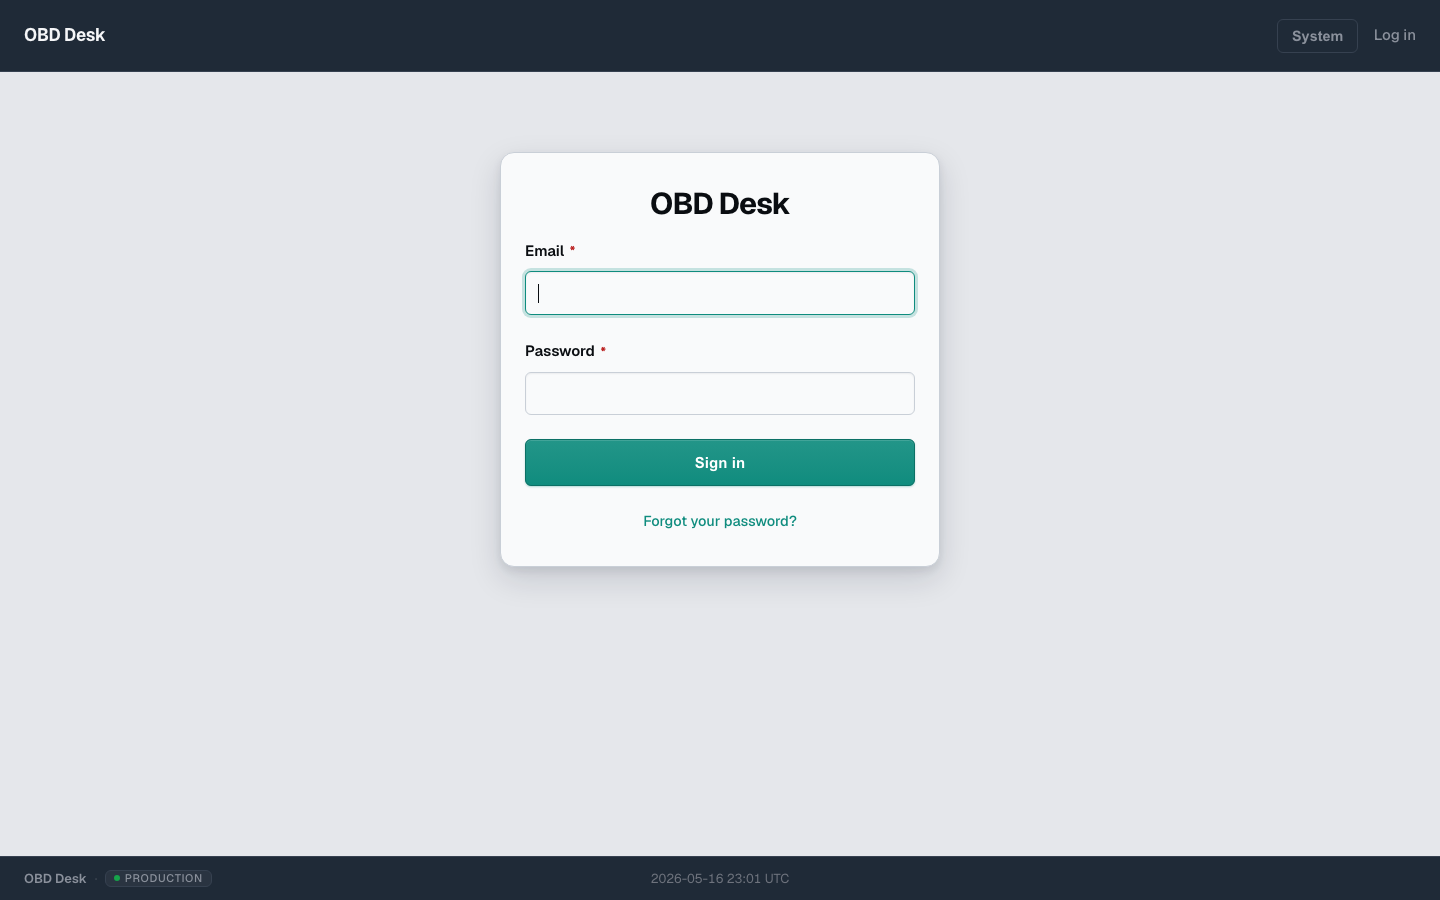
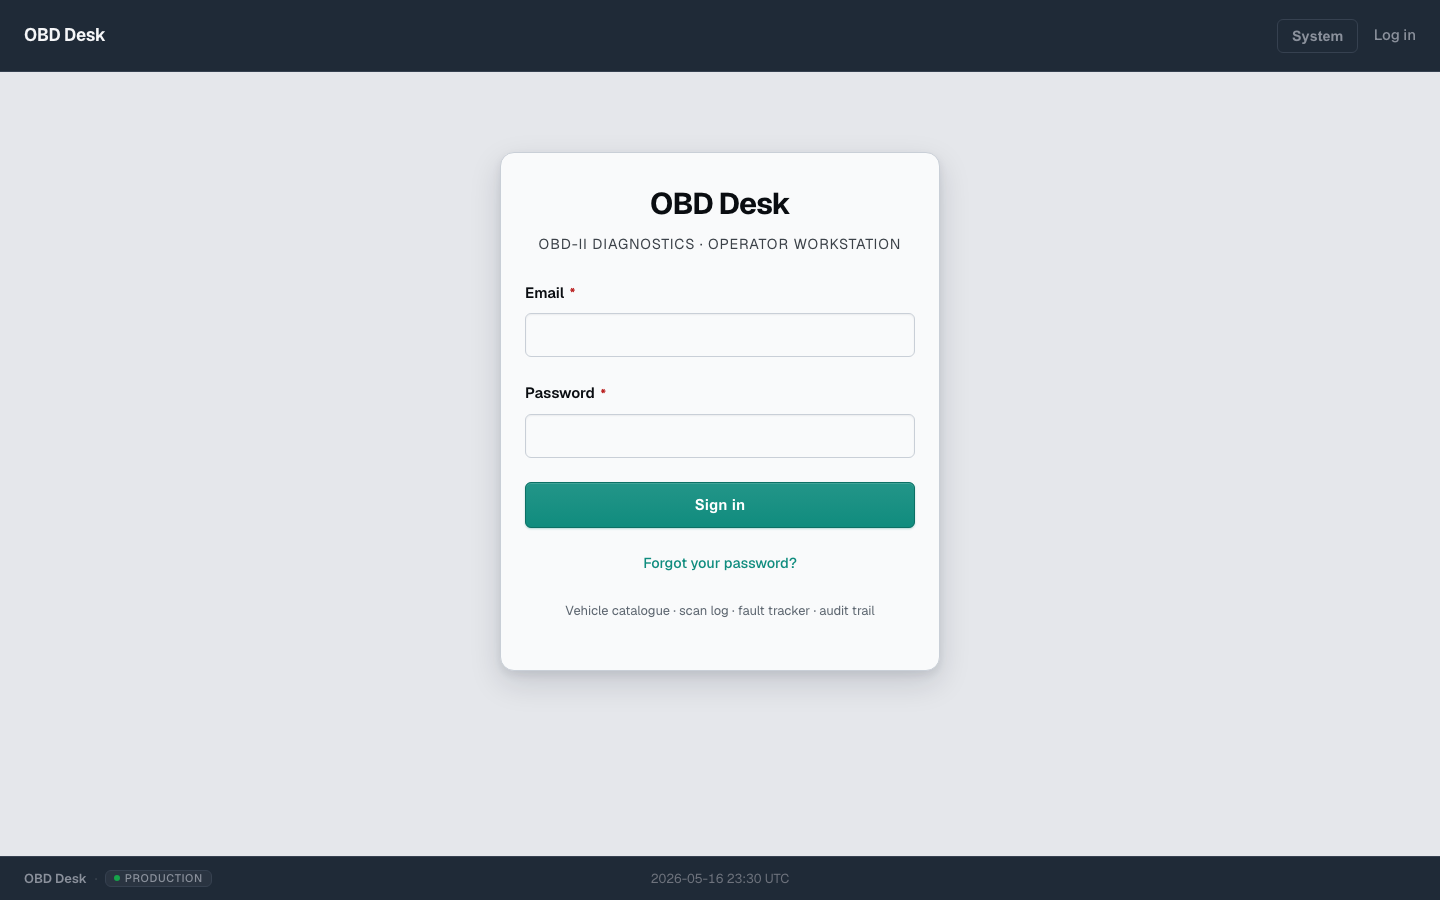
feat: project HTML template overrides — OBD operator dashboard
Loads project templates from `./templates/` via `Templates::new`,
so any `templates/admin/<page>.html` overrides the framework's
embedded copy for that page. The path can be relocated via
`RUSTIO_TEMPLATE_DIR` for deployments that ship templates next
to the binary rather than in the repo.

Two overrides ship in this commit:

`templates/admin/index.html` — replaces the framework's generic
"Site administration · model list" dashboard with an OBD-flavoured
operator brief:

  * Page header carries an OBD-II tagline + summary paragraph
    explaining what each catalogue does and how the audit log
    relates.
  * Catalogues card replaces the framework's model table with a
    4-column grid. Each model gets a description specific to
    obddesk (DTC catalogue → SAE J2012 / ISO 15031; Vehicles →
    fleet register by VIN; Scan sessions → diagnostic-event
    log; Detected faults → fault tracker through resolution).
  * Operator workflow card — a 4-step ordered list explaining
    the intended sequence (register vehicle → open scan session
    → record detected faults → resolve and document) with deep
    links to each "new" form.
  * Recent actions card unchanged in semantics — still consumes
    the framework's `recent_actions` audit-log variable, plus a
    one-sentence note explaining what triggers an audit row.

`templates/admin/login.html` — adds two lines of OBD framing
around the unchanged form:

  * Above the email field: `OBD-II DIAGNOSTICS · OPERATOR
[…]

diff --git a/templates/admin/index.html b/templates/admin/index.html
@@ -1,0 +1,145 @@
+{# obddesk override of the framework's index.html.
+   Replaces the generic "models you can manage" list with an OBD-II
+   operator dashboard: a welcome panel, per-model context cards
+   describing what each catalogue does, an operator-workflow guide,
+   and the framework's audit-log Recent actions list (untouched).
+
+   Loaded when `RUSTIO_TEMPLATE_DIR=templates` is set; falls back to
+   the embedded copy in framework/assets/templates/admin/index.html
+   otherwise. #}
+{% extends "admin/_base.html" %}
+{% block content %}
+<header class="rio-page-header">
+  <h1>{{ index_title }}</h1>
+  <p class="rio-meta" style="margin-top: 0.35rem; max-width: 60ch;">
+    Operator workstation for OBD-II diagnostics. Catalogue, fleet
+    register, scan log, and fault tracker — all on one Postgres-
+    backed admin. Sign-in attempts, schema changes, and authority
+    mutations are recorded in the audit log below.
+  </p>
+</header>
+
+{% if apps %}
+<section class="rio-card" style="padding-top: var(--rio-s4);">
+  <h2 style="font-size: var(--rio-fs-xs); font-weight: 600;
+             text-transform: uppercase;
+             letter-spacing: var(--rio-tracking-allcaps);
+             color: var(--rio-text-muted);
+             margin: 0 0 var(--rio-s4);">
+    Catalogues
+  </h2>
+
+  <div style="display: grid; gap: var(--rio-s4);
+              grid-template-columns: repeat(auto-fit, minmax(280px, 1fr));">
+    {% for app in apps %}
+      {% for model in app.models %}
+      <article style="border: 1px solid var(--rio-border-soft);
+                      border-radius: var(--rio-radius);
+                      padding: var(--rio-s4) var(--rio-s5);
+                      background: var(--rio-surface);">
+        <h3 style="margin: 0 0 var(--rio-s2);
+                   font-size: var(--rio-fs-lg);
+                   font-weight: 700;
+                   letter-spacing: var(--rio-tracking-heading);">
+          <a href="/admin/{{ model.admin_name }}"
+             style="color: var(--rio-text-strong); text-decoration: none;">
+            {{ model.display_name }}
+          </a>
+        </h3>
+
+        <p class="rio-meta" style="margin: 0 0 var(--rio-s4);
+                                   font-size: var(--rio-fs-sm);
+                                   line-height: var(--rio-lh-ui);">
+          {% if model.admin_name == "diagnostic_codes" %}
+            Canonical OBD-II DTC catalogue (SAE&nbsp;J2012 /
+            ISO&nbsp;15031). Powertrain, Body, Chassis, and Network
+            codes with severity classification.
+          {% elif model.admin_name == "vehicles" %}
+            Registered fleet — one row per VIN with make, model,
+            year, engine displacement, and fuel type.
+          {% elif model.admin_name == "scan_sessions" %}
+            Diagnostic-event log. Each session captures the vehicle,
+            mileage, technician, and free-form notes.
+          {% elif model.admin_name == "detected_faults" %}
+            Detected faults observed within each scan, tracked
+            through to resolution with technician notes.
+          {% else %}
+            Catalogue managed by this admin.
+          {% endif %}
+        </p>
+
+        <div style="display: flex; gap: var(--rio-s2); flex-wrap: wrap;">
+          <a class="rio-button rio-button--ghost"
+             href="/admin/{{ model.admin_name }}">
+            {{ icon("table", class="rio-icon") }} Browse
+          </a>
+          <a class="rio-button rio-button--ghost"
+             href="/admin/{{ model.admin_name }}/new">
+            {{ icon("plus", class="rio-icon") }} Add new
+          </a>
+        </div>
+      </article>
+      {% endfor %}
+    {% endfor %}
+  </div>
+</section>
+{% else %}
+<section class="rio-card rio-empty">
+  <p>No models registered yet. Call <code>Admin::new().model::&lt;YourModel&gt;()</code> in your <code>main.rs</code>.</p>
+</section>
+{% endif %}
+
+<section class="rio-card" style="padding-top: var(--rio-s4);">
+  <h2 style="font-size: var(--rio-fs-xs); font-weight: 600;
+             text-transform: uppercase;
+             letter-spacing: var(--rio-tracking-allcaps);
+             color: var(--rio-text-muted);
+             margin: 0 0 var(--rio-s3);">
+    Operator workflow
+  </h2>
+  <ol style="margin: 0; padding-left: var(--rio-s5);
+             font-size: var(--rio-fs-md); line-height: var(--rio-lh-body);
+             color: var(--rio-text);">
+    <li><strong>Register the vehicle.</strong>
+        Add a <a href="/admin/vehicles/new">new VIN</a> with make,
+        model, model year, engine displacement, and fuel type.</li>
+    <li><strong>Open a scan session.</strong>
+        Create a <a href="/admin/scan_sessions/new">scan session</a>
+        against the vehicle's VIN, recording mileage and the technician.</li>
+    <li><strong>Record detected faults.</strong>
+        For each DTC observed during the scan, file a
+        <a href="/admin/detected_faults/new">detected fault</a>
+        referencing the session and the diagnostic code.</li>
+    <li><strong>Resolve and document.</strong>
+        Edit the fault row, set <em>is&nbsp;resolved</em>, and
+        capture a resolution summary the next technician can rely on.</li>
+  </ol>
+</section>
+
+<section class="rio-card rio-recent">
+  <h2 style="font-size: var(--rio-fs-xs); font-weight: 600;
+             text-transform: uppercase;
+             letter-spacing: var(--rio-tracking-allcaps);
+             color: var(--rio-text-muted);
+             margin: 0 0 var(--rio-s3);">
+    Recent actions
+  </h2>
+  {% if recent_actions %}
+  <ul class="rio-timeline">
+    {% for a in recent_actions %}
+    <li class="rio-timeline-item">
+      <span class="rio-pill rio-pill--{{ a.pill_class }}">{{ a.label }}</span>
+      <a href="/admin/{{ a.model_name }}">{{ a.model_name }}</a>
+      #<a href="/admin/{{ a.model_name }}/{{ a.object_id }}/edit">{{ a.object_id }}</a>
+      {% if a.summary %}— {{ a.summary }}{% endif %}
+      <span class="rio-meta">{{ a.user_email }} · {{ a.when_relative }}</span>
+    </li>
+    {% endfor %}
+  </ul>
+  {% else %}
+  <p class="rio-meta">No actions recorded yet. Every authority mutation
+     (model row created / edited / deleted, password change, MFA
+     enrolment) lands here with the actor and timestamp.</p>
+  {% endif %}
+</section>
+{% endblock %}

diff --git a/templates/admin/login.html b/templates/admin/login.html
@@ -1,0 +1,37 @@
+{# obddesk override of the framework's login.html.
+   Adds an OBD-II tagline above the form + a one-line note below
+   so the sign-in surface signals what the service does without
+   crossing into marketing territory (DESIGN_DOCTRINE.md §6.7).
+   Form fields, CSRF, and submit semantics are unchanged. #}
+{% extends "admin/_base.html" %}
+{% block sidebar %}{% endblock %}
+{% block content %}
+<div class="rio-login">
+  <h1 class="rio-login-title">{{ site_header }}</h1>
+  <p class="rio-meta"
+     style="text-align: center; margin: -0.35rem 0 var(--rio-s5);
+            font-size: var(--rio-fs-sm);
+            letter-spacing: var(--rio-tracking-allcaps);
+            text-transform: uppercase;
+            color: var(--rio-text-muted);">
+    OBD-II Diagnostics · Operator Workstation
+  </p>
+  {% if error %}<div class="rio-flash rio-flash--error" role="alert">{{ error }}</div>{% endif %}
+  <form method="post" action="/admin/login" class="rio-form rio-form--login" autocomplete="on">
+    <input type="hidden" name="_csrf" value="{{ csrf_token }}">
+    {% for section in sections %}
+      {% for field in section.fields %}{% include "admin/includes/_form_field.html" %}{% endfor %}
+    {% endfor %}
+    <button type="submit" class="rio-button rio-button--primary">Sign in</button>
+  </form>
+  <p class="rio-login-footer">
+    <a href="/admin/forgot-password">Forgot your password?</a>
+  </p>
+  <p class="rio-meta"
+     style="text-align: center; margin-top: var(--rio-s5);
+            font-size: var(--rio-fs-xs);
+            color: var(--rio-text-subtle);">
+    Vehicle catalogue · scan log · fault tracker · audit trail
+  </p>
+</div>
+{% endblock %}

diff --git a/src/main.rs b/src/main.rs
@@ -8,6 +8,7 @@
 mod _generated;
 
 use std::env;
+use std::path::PathBuf;
 
 use rustio_admin::templates::Templates;
 use rustio_admin::{auth, middleware, register_admin_routes, Db, Result, Router, Server};
@@ -41,8 +42,17 @@ async fn main() -> Result<()> {
     // 4. Seed per-model view / add / change / delete permissions.
     admin.seed_permissions(&db).await?;
 
-    // 5. Embedded templates (no disk override).
-    let templates = Templates::new(None)?;
+    // 5. Templates — point at the project's `templates/` directory
+    //    so files under `templates/admin/*.html` override the
+    //    framework's embedded copies for that page. Files not
+    //    overridden continue to load from the embedded set.
+    //    The override path can be relocated via
+    //    `RUSTIO_TEMPLATE_DIR` for ops who want to deploy
+    //    templates alongside the binary without baking them in.
+    let template_dir = env::var("RUSTIO_TEMPLATE_DIR")
+        .map(PathBuf::from)
+        .unwrap_or_else(|_| PathBuf::from("templates"));
+    let templates = Templates::new(Some(template_dir))?;
 
     // 6. Canonical middleware chain. Order is load-bearing
     //    (DESIGN_SESSIONS.md / DESIGN_AUDIT.md).
